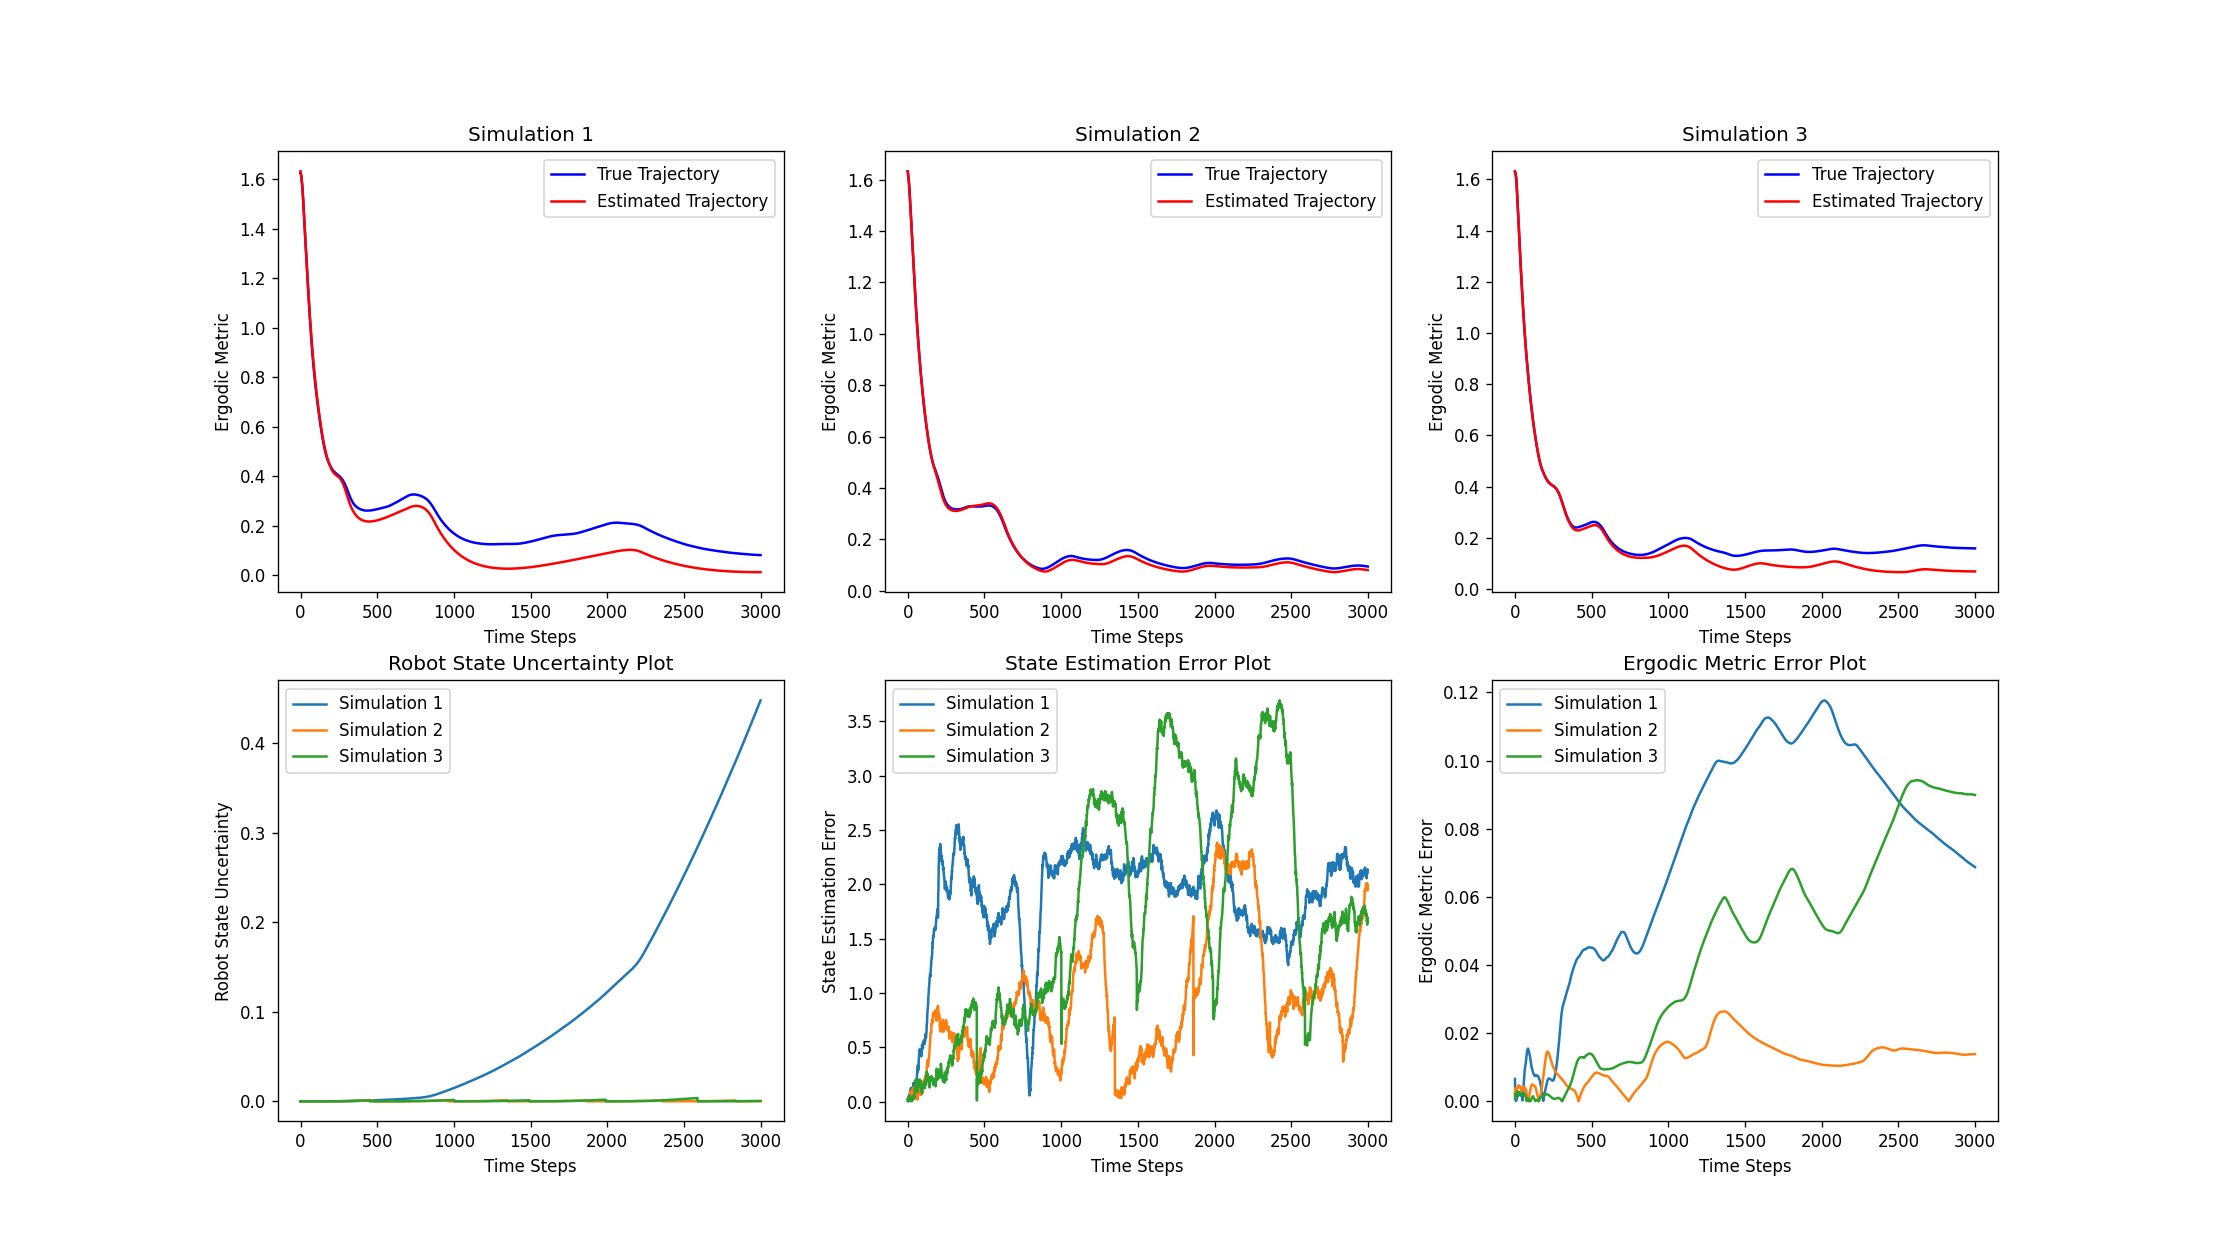
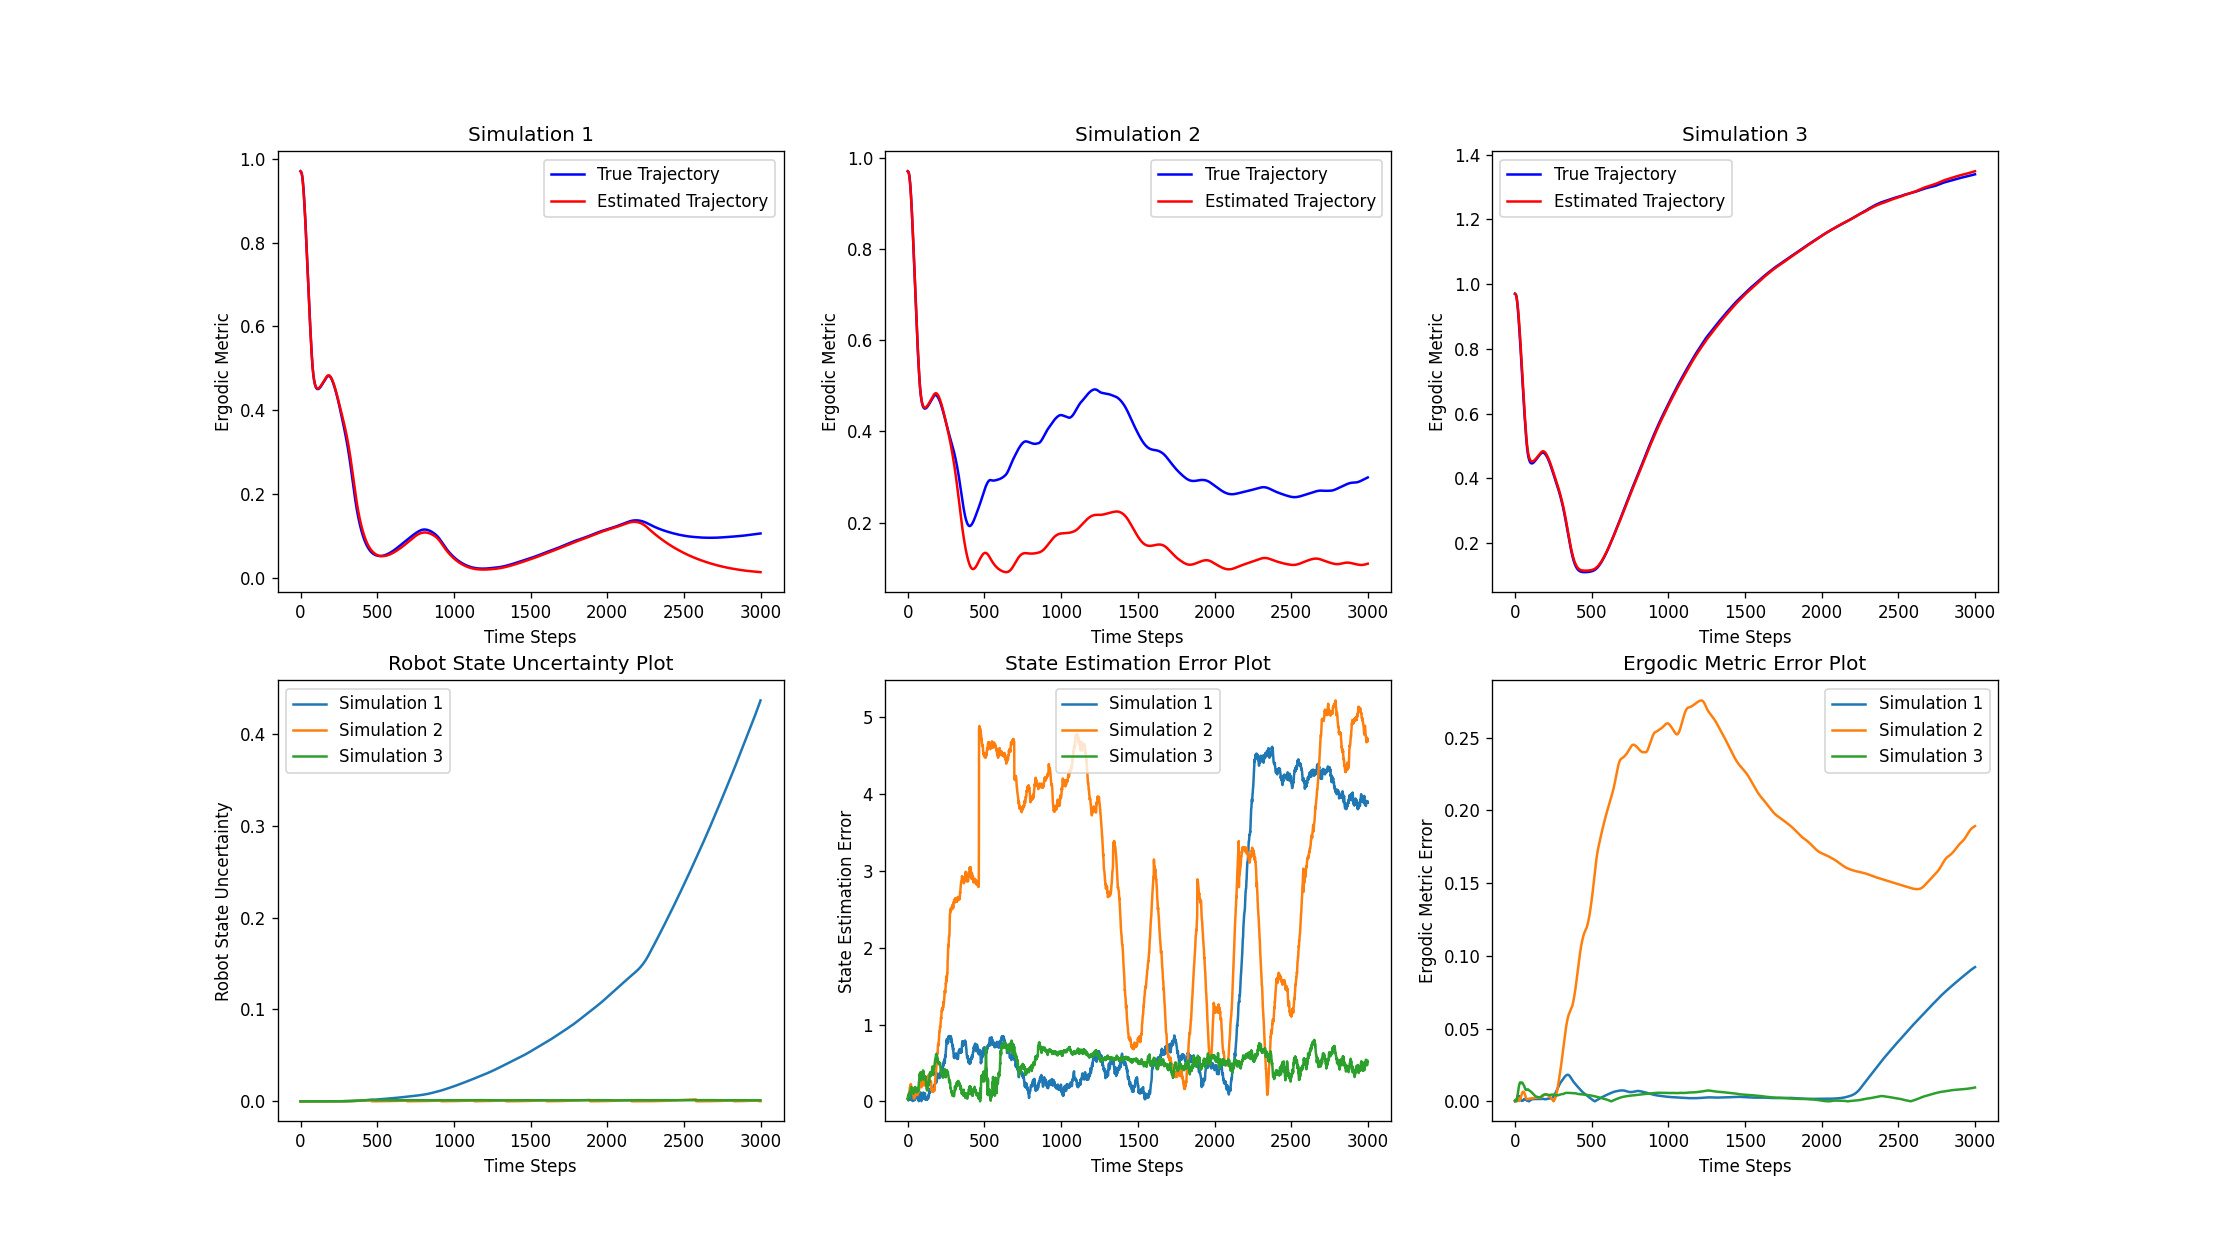
update before checkout to ekf_localization

diff --git a/lm_dist_evaluation/test_11/lm_dist_evaluation_11.py b/lm_dist_evaluation/test_11/lm_dist_evaluation_11.py
@@ -17,21 +17,21 @@ from math import pi
 # initialization
 ###################################
 
-tf = 2000
+tf = 3000
 size = 20.0
 init_state = np.array([10., 10., 0.0])
 sensor_range = 4
-motion_noise = np.array([0.2, 0.2, 0.1]) ** 2
-measure_noise = np.array([0.15, 0.15]) ** 2
-threshold = 5e-3
+motion_noise = np.array([0.02, 0.02, 0.005])
+measure_noise = np.array([0.01, 0.01])
+threshold = 5e-4
 
 means = [np.array([14.5, 5.5]), np.array([4.5, 15.5])]
 vars = [np.array([1.2, 1.2])**2, np.array([1.2, 1.2])**2]
 t_dist = TargetDist(num_pts=50, means=means, vars=vars, size=size)
 
-landmarks = np.load('/home/msun/Code/ErgodicBSP/lm_dist_evaluation/cornered_dual_2.npy')
+landmarks = np.load('/home/msun/Code/ErgodicBSP/lm_dist_evaluation/cornered_dual_3.npy')
 
-eval_time = 1
+eval_time = 2
 eval_logs = []
 for idx in range(eval_time):
     print('evalulation round: ', idx)
@@ -56,6 +56,8 @@ for idx in range(eval_time):
     erg_ctrl_sim1 = simulation_slam(size, init_state, t_dist, modelTrue1, ergCtrlTrue1, envTrue1, modelDR1, ergCtrlDR1, envDR1, tf, landmarks, sensor_range, motion_noise, measure_noise)
 
     log1 = erg_ctrl_sim1.start(report=True, debug=False, update=0, update_threshold=threshold)
+    # erg_ctrl_sim1.animate()
+    # erg_ctrl_sim1.new_animate3(point_size=1, alpha=3, show_traj=True, title='Landmarks Distribution Test', rate=50)
 
     ###################################
     # simulation 2
@@ -77,7 +79,6 @@ for idx in range(eval_time):
     erg_ctrl_sim2 = simulation_slam(size, init_state, t_dist, modelTrue2, ergCtrlTrue2, envTrue2, modelDR2, ergCtrlDR2, envDR2, tf, landmarks, sensor_range, motion_noise, measure_noise)
 
     log2 = erg_ctrl_sim2.start(report=True, debug=False, update=1, update_threshold=threshold)
-    
 
     ###################################
     # simulation 3
@@ -99,7 +100,7 @@ for idx in range(eval_time):
     erg_ctrl_sim3 = simulation_slam(size, init_state, t_dist, modelTrue3, ergCtrlTrue3, envTrue3, modelDR3, ergCtrlDR3, envDR3, tf, landmarks, sensor_range, motion_noise, measure_noise)
 
     log3 = erg_ctrl_sim3.start(report=True, debug=False, update=2, update_threshold=threshold)
-
+    # erg_ctrl_sim3.animate3(point_size=1, alpha=1, show_traj=True, title='Landmarks Distribution Test', rate=50)
 
     ###################################
     # evaluation
@@ -109,17 +110,18 @@ for idx in range(eval_time):
     eval_logs.append(eval_log)
 
 
-###################################
-# animation
-###################################
-erg_ctrl_sim1.animate()
-erg_ctrl_sim1.new_animate3(point_size=1, alpha=3, show_traj=True, title='Landmarks Distribution Test', rate=50)
+    ###################################
+    # animation
+    ###################################
+    erg_ctrl_sim1.animate()
+    erg_ctrl_sim1.new_animate3(point_size=1, alpha=3, show_traj=True, title='Landmarks Distribution Test', rate=50)
 
-erg_ctrl_sim2.animate()
-erg_ctrl_sim2.new_animate3(point_size=1, alpha=3, show_traj=True, title='Landmarks Distribution Test', rate=50)
+    erg_ctrl_sim2.animate()
+    erg_ctrl_sim2.new_animate3(point_size=1, alpha=3, show_traj=True, title='Landmarks Distribution Test', rate=50)
 
-erg_ctrl_sim3.animate()
-erg_ctrl_sim3.new_animate3(point_size=1, alpha=3, show_traj=True, title='Landmarks Distribution Test', rate=50)
+    erg_ctrl_sim3.animate()
+    erg_ctrl_sim3.new_animate3(point_size=1, alpha=3, show_traj=True, title='Landmarks Distribution Test', rate=50)
+
 
 ###################################
 # process averaged data

diff --git a/rt_erg_lib/dynamic_target_dist.py b/rt_erg_lib/dynamic_target_dist.py
@@ -142,8 +142,8 @@ class TargetDist(object):
 
         if np.sum(vals) != 0:
             vals /= np.sum(vals)
-        # else:
-        #     vals = np.ones(grid.shape[0])
+        else:
+            vals = self.target_grid_vals
         self.belief_vals = vals
 
         alpha = (p / (p + threshold)) ** 2
@@ -207,8 +207,8 @@ class TargetDist(object):
 
         if np.sum(vals) != 0:
             vals /= np.sum(vals)
-        # else:
-        #     vals = np.ones(grid.shape[0])
+        else:
+            vals = self.target_grid_vals
         self.belief_vals = vals
 
         alpha = (p / (p + threshold)) ** 2
